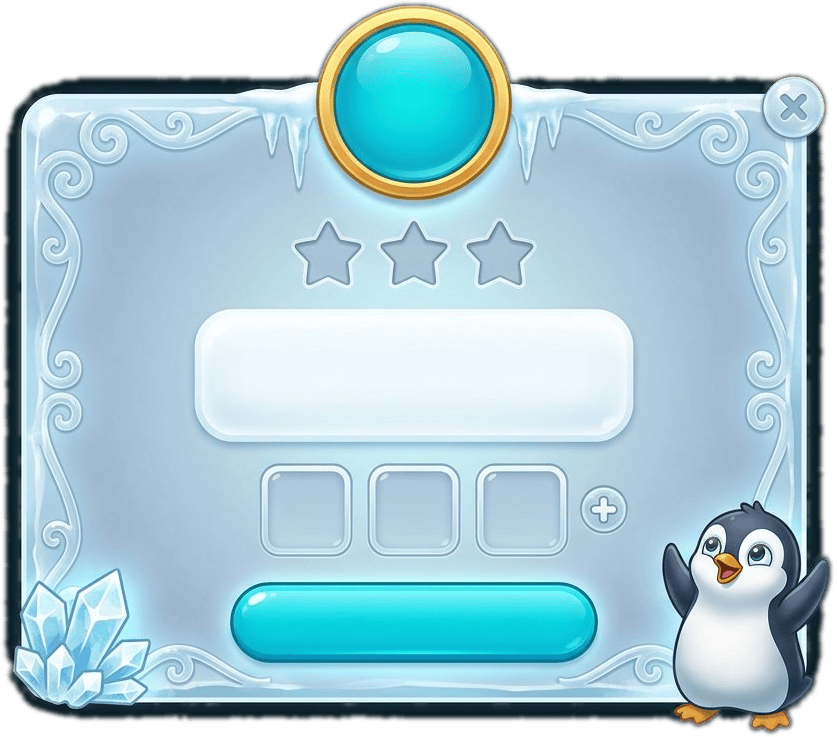
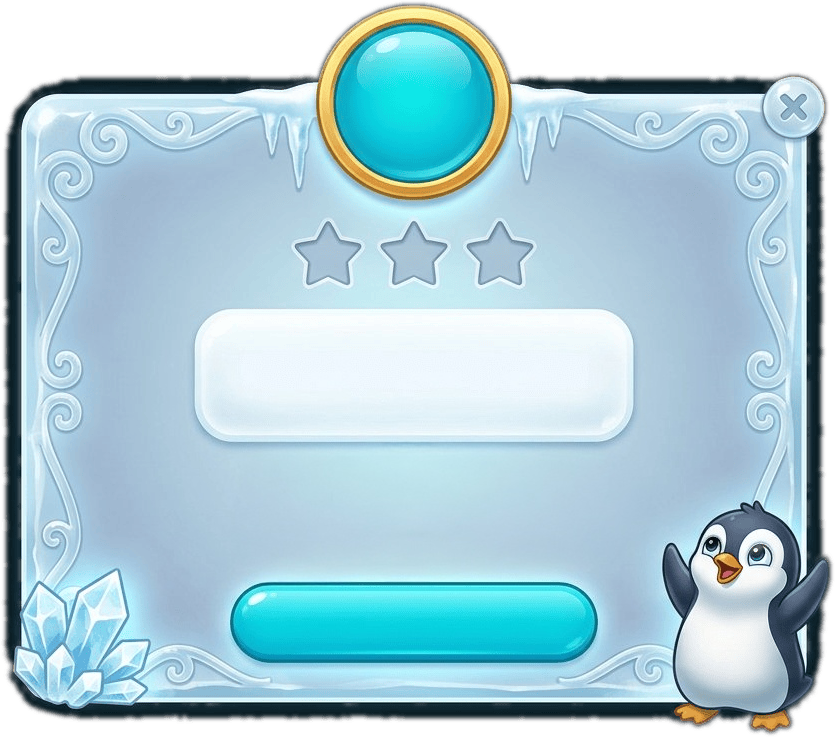
popup fix and more

diff --git a/src/map.css b/src/map.css
@@ -288,7 +288,7 @@
   left: 50%;
   transform: translateX(-50%);
   z-index: 100;
-  width: min(85px, 13vw);
+  width: min(128px, 19.5vw);
   padding: 0;
   border: none;
   background: transparent;
@@ -1257,7 +1257,7 @@
     top: max(8px, env(safe-area-inset-top));
     left: max(8px, env(safe-area-inset-left));
     transform: none;
-    width: clamp(52px, 15vw, 70px);
+    width: clamp(78px, 22.5vw, 105px);
   }
 
   .crush-pass:hover,